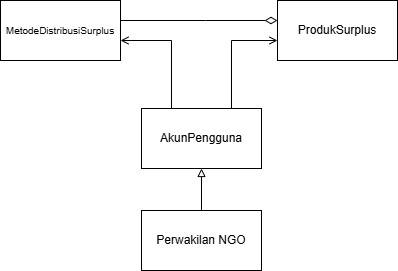
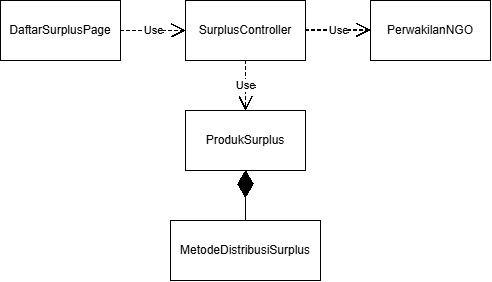
docs: fix class identification, class diagram, and atribute&method of UC07-UC09

diff --git a/docs/M4/K03_G08_CD.md b/docs/M4/K03_G08_CD.md
@@ -642,14 +642,16 @@ Pada diagram kelas, cukup tampilkan nama kelas saja. Atribut dan metode/operasi 
 
 | ID Kelas | Nama Kelas | Deskripsi Kelas |
 | :--- | :--- | :--- |
-| *C01* | *AkunPengguna* | *Menyimpan data akun dan identitas pengguna FoodLink serta informasi mengenai tipe pengguna, yaitu Pemilik F&B, Perwakilan NGO, atau Admin Sistem.* |
-| *C08* | *ProdukSurplus* | *Menyimpan produk yang ditetapkan surplus: jumlah, batas waktu pengambilan, dan status (tersedia/dikirim).* |
-| *C09* | *MetodeDistribusiSurplus* | *Menyimpan pilihan distribusi surplus (donasi atau jual diskon) dengan harganya dan menangani pengurutan jarak dan penyaringan.* |
+| *C30* | *PemilikFnB* | *Subkelas dari AkunPengguna, berisi informasi tentang Pemilik F&B (Entity Class)* |
+| *C08* | *ProdukSurplus* | *Menyimpan informasi produk surplus yang akan ditentukan metode distribusinya. (Entity Class)* |
+| *C09* | *MetodeDistribusiSurplus* | *Menyimpan pilihan distribusi surplus (donasi atau jual dengan harga diskon) beserta harga jika dijual. (Entity Class)* |
+| *C18* | *DistribusiSurplusPage* | *Antarmuka bagi Pemilik F&B untuk memilih dan mengatur metode distribusi produk surplus. (Boundary Class)* |
+| *C26* | *ProdukSurplusController* | *Memvalidasi dan menyimpan metode distribusi yang dipilih untuk produk surplus tertentu. (Controller Class)* |
 
 #### Diagram Kelas
 
 <p align="center">
-<img alt="Class Diagram UC07" src="./assets/diagram/Class Diagram-UC07.jpg" width="42%">
+<img alt="Class Diagram UC07" src="./assets/diagram/Class Diagram-UC07.png" width="42%">
 </p>
 <p align="center">
 <i>Gambar 8. Diagram Kelas Use Case UC07</i>
@@ -658,9 +660,11 @@ Pada diagram kelas, cukup tampilkan nama kelas saja. Atribut dan metode/operasi 
 
 | ID Kelas | Nama Kelas | Atribut | Metode/Operasi |
 | :--- | :--- | :--- | :--- |
-| *C02* | *Pesanan* | *idPesanan, total, status* | *buatPesanan(), hitungTotal()* |
-| *C03* | *Keranjang* | *daftarItem* | *tambahItem(), checkout()* |
-| *...* | *...* | *...* | *...* |
+| *C30* | *PemilikFnB* | *namaUsaha, alamatUsaha, jamOperasional* | *aturDistribusiSurplus()* |
+| *C08* | *ProdukSurplus* | *idSurplus, jumlah, batasWaktuPengambilan, status* | *updateStatus()* |
+| *C09* | *MetodeDistribusiSurplus* | *idDistribusi, jenisDistribusi, harga* | *pilihMetodeDistribusi(), hitungHargaDiskon()* |
+| *C18* | *DistribusiSurplusPage* | - | *tampilkanOpsiDistribusi()* |
+| *C26* | *ProdukSurplusController* | - | *validasiMetodeDistribusi(), simpanMetodeDistribusi()* |
 
 <br>
 
@@ -672,9 +676,11 @@ Pada diagram kelas, cukup tampilkan nama kelas saja. Atribut dan metode/operasi 
 
 | ID Kelas | Nama Kelas | Deskripsi Kelas |
 | :--- | :--- | :--- |
-| *C01* | *AkunPengguna* | *Menyimpan data akun dan identitas pengguna FoodLink serta informasi mengenai tipe pengguna, yaitu Pemilik F&B, Perwakilan NGO, atau Admin Sistem.* |
-| *C08* | *ProdukSurplus* | *Menyimpan produk yang ditetapkan surplus: jumlah, batas waktu pengambilan, dan status (tersedia/dikirim).* |
-| *C09* | *MetodeDistribusiSurplus* | *Menyimpan pilihan distribusi surplus (donasi atau jual diskon) dengan harganya dan menangani pengurutan jarak dan penyaringan.* |
+| *C31* | *PerwakilanNGO* | *Subkelas dari AkunPengguna, berisi informasi tentang Perwakilan NGO (Entity Class)* |
+| *C08* | *ProdukSurplus* | *Menyimpan informasi produk surplus (jumlah, batas waktu, status) yang ditampilkan kepada NGO.* |
+| *C09* | *MetodeDistribusiSurplus* | *Menyimpan informasi jenis distribusi dan harga produk surplus yang ditampilkan kepada NGO.* |
+| *C19* | *DaftarSurplusPage* | *Antarmuka daftar produk surplus yang telah diurutkan berdasarkan jarak terdekat untuk NGO.* |
+| *C27* | *SurplusController* | *Mengambil dan mengurutkan produk surplus berdasarkan jarak terdekat dari lokasi NGO.* |
 
 #### Diagram Kelas
 
@@ -688,9 +694,11 @@ Pada diagram kelas, cukup tampilkan nama kelas saja. Atribut dan metode/operasi 
 
 | ID Kelas | Nama Kelas | Atribut | Metode/Operasi |
 | :--- | :--- | :--- | :--- |
-| *C02* | *Pesanan* | *idPesanan, total, status* | *buatPesanan(), hitungTotal()* |
-| *C03* | *Keranjang* | *daftarItem* | *tambahItem(), checkout()* |
-| *...* | *...* | *...* | *...* |
+| *C31* | *PerwakilanNGO* | *namaOrganisasi, nomorLegalitas, lokasi* | *lihatDaftarSurplus()* |
+| *C08* | *ProdukSurplus* | *idSurplus, jumlah, batasWaktuPengambilan, status* | *getDetailSurplus()* |
+| *C09* | *MetodeDistribusiSurplus* | *idDistribusi, jenisDistribusi, harga* | *getInfoDistribusi()* |
+| *C19* | *DaftarSurplusPage* | - | *tampilkanDaftarSurplus()* |
+| *C27* | *SurplusController* | - | *urutkanBerdasarkanJarak(), ambilDaftarSurplus()* |
 
 <br>
 
@@ -702,9 +710,11 @@ Pada diagram kelas, cukup tampilkan nama kelas saja. Atribut dan metode/operasi 
 
 | ID Kelas | Nama Kelas | Deskripsi Kelas |
 | :--- | :--- | :--- |
-| *C01* | *AkunPengguna* | *Menyimpan data akun dan identitas pengguna FoodLink serta informasi mengenai tipe pengguna, yaitu Pemilik F&B, Perwakilan NGO, atau Admin Sistem.* |
-| *C08* | *ProdukSurplus* | *Menyimpan produk yang ditetapkan surplus: jumlah, batas waktu pengambilan, dan status (tersedia/dikirim).* |
-| *C09* | *MetodeDistribusiSurplus* | *Menyimpan pilihan distribusi surplus (donasi atau jual diskon) dengan harganya dan menangani pengurutan jarak dan penyaringan.* |
+| *C31* | *PerwakilanNGO* | *Subkelas dari AkunPengguna, berisi informasi tentang Perwakilan NGO (Entity Class)* |
+| *C08* | *ProdukSurplus* | *Menyimpan informasi produk surplus yang menjadi target penyaringan.* |
+| *C09* | *MetodeDistribusiSurplus* | *Menyimpan informasi jenis distribusi yang dapat menjadi salah satu kriteria penyaringan.* |
+| *C19* | *DaftarSurplusPage* | *Antarmuka bagi NGO untuk memasukkan kriteria penyaringan (jenis makanan, jarak, batas waktu).* |
+| *C27* | *SurplusController* | *Menyaring dan mencari produk surplus berdasarkan kriteria yang dimasukkan NGO.* |
 
 #### Diagram Kelas
 
@@ -718,9 +728,11 @@ Pada diagram kelas, cukup tampilkan nama kelas saja. Atribut dan metode/operasi 
 
 | ID Kelas | Nama Kelas | Atribut | Metode/Operasi |
 | :--- | :--- | :--- | :--- |
-| *C02* | *Pesanan* | *idPesanan, total, status* | *buatPesanan(), hitungTotal()* |
-| *C03* | *Keranjang* | *daftarItem* | *tambahItem(), checkout()* |
-| *...* | *...* | *...* | *...* |
+| *C31* | *PerwakilanNGO* | *namaOrganisasi, nomorLegalitas, lokasi* | *saringDaftarSurplus()* |
+| *C08* | *ProdukSurplus* | *idSurplus, jumlah, batasWaktuPengambilan, status* | *getDetailSurplus()* |
+| *C09* | *MetodeDistribusiSurplus* | *idDistribusi, jenisDistribusi, harga* | *getInfoDistribusi()* |
+| *C19* | *DaftarSurplusPage* | - | *tampilkanFormFilter()* |
+| *C27* | *SurplusController* | - | *saringProdukSurplus(), cariProdukSurplus()* |
 
 <br>
 
